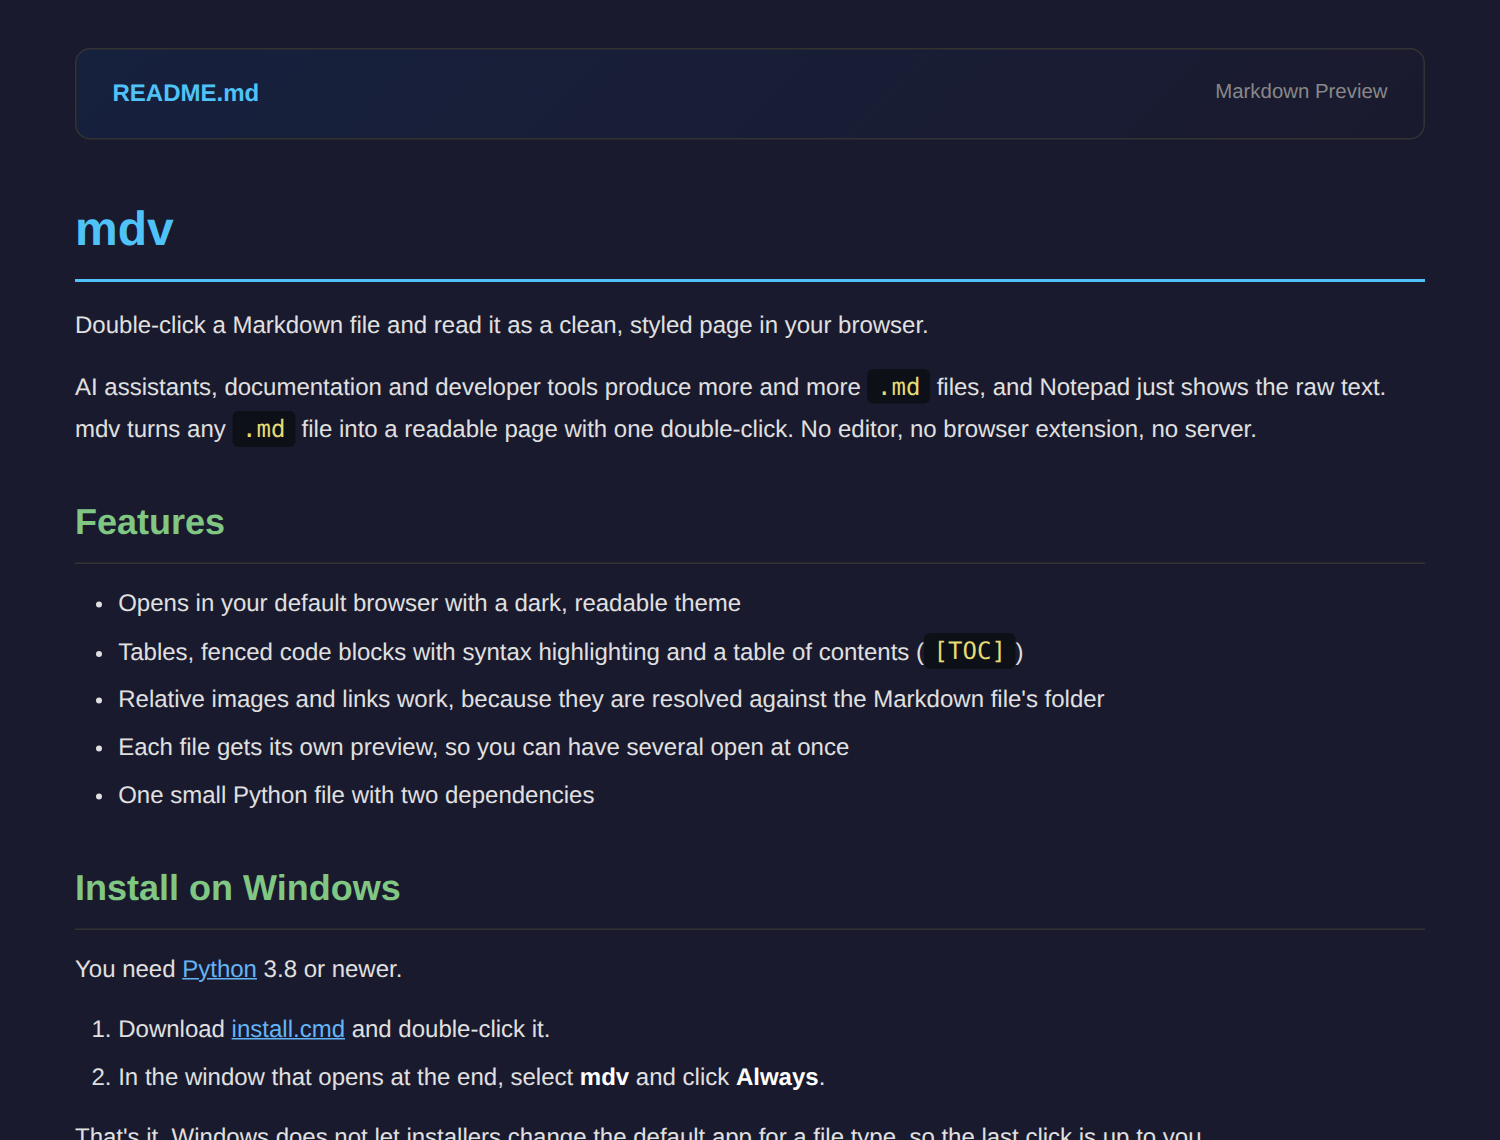
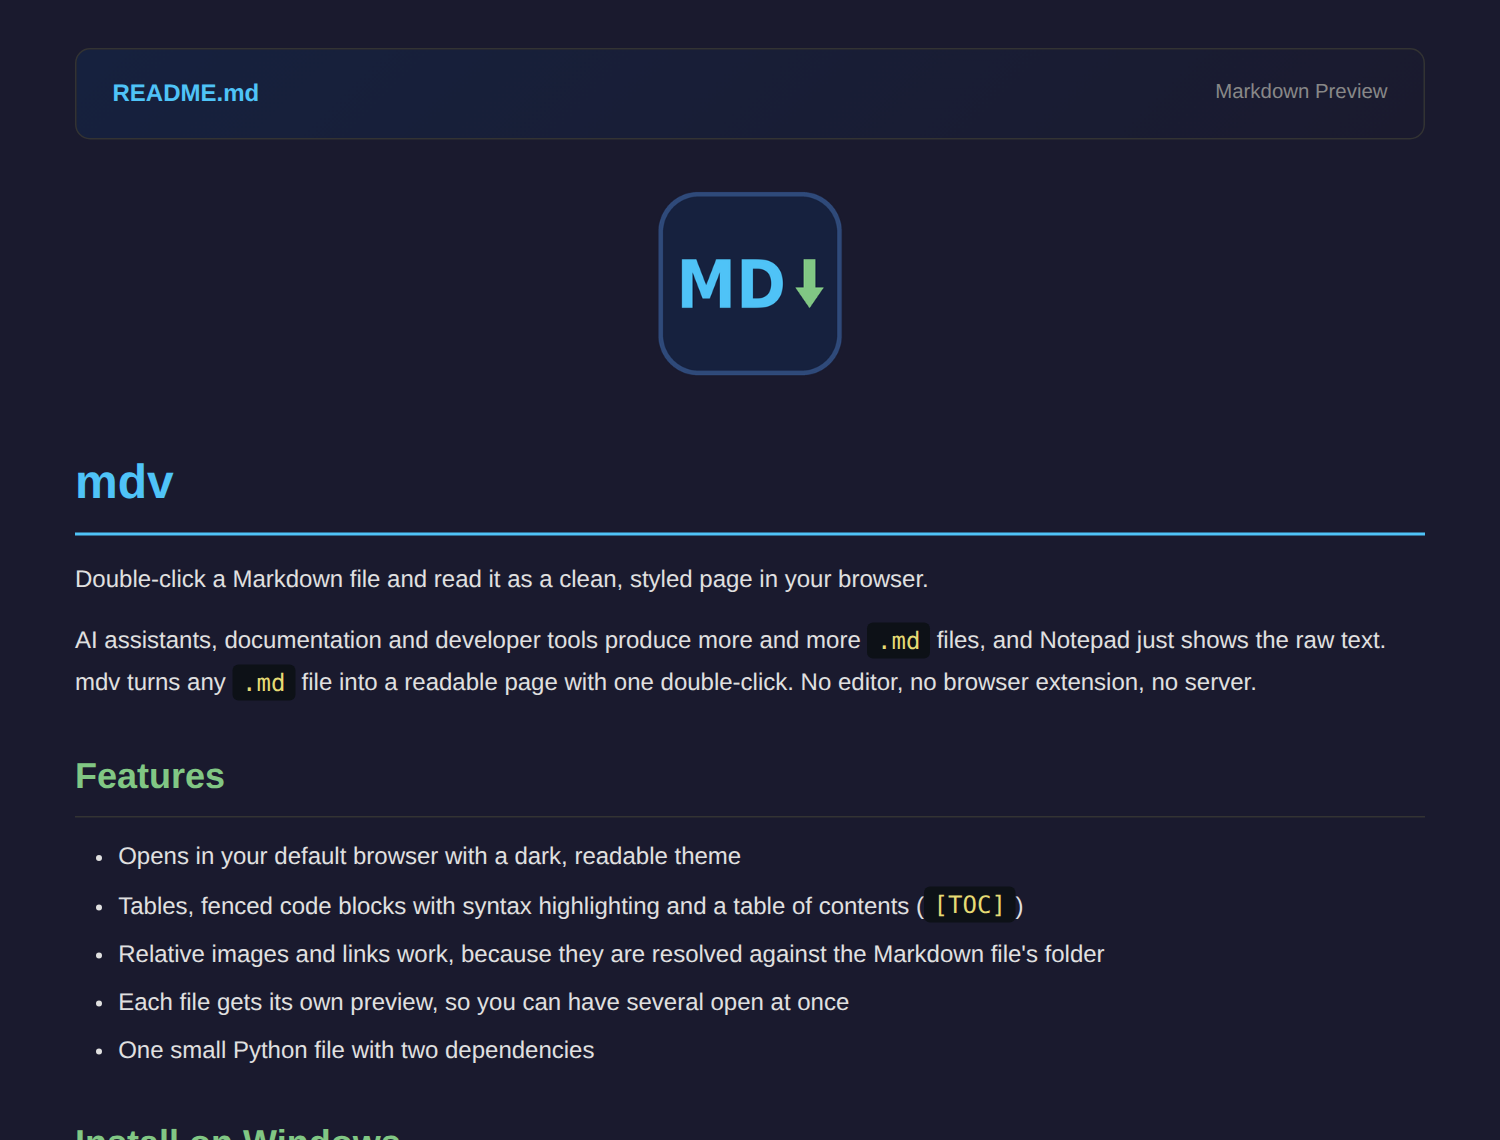
Add files via upload
Add icon and update installer

diff --git a/README.md b/README.md
@@ -1,3 +1,7 @@
+<p align="center">
+  <img src="https://raw.githubusercontent.com/rothausen/mdv/main/logo.png" width="128" alt="mdv logo">
+</p>
+
 # mdv
 
 Double-click a Markdown file and read it as a clean, styled page in your browser.
@@ -19,7 +23,7 @@ AI assistants, documentation and developer tools produce more and more `.md` fil
 You need [Python](https://www.python.org/downloads/) 3.8 or newer.
 
 1. Download [install.cmd](https://github.com/rothausen/mdv/releases/latest/download/install.cmd) and double-click it.
-2. In the window that opens at the end, select **mdv** and click **Always**.
+2. A window opens at the end. Scroll to the bottom of the list, click **mdv** and click **Always**. If mdv is not in the list, click **Choose an app on your PC** and select `mdv.bat` in `%USERPROFILE%\bin\mdv`.
 
 That's it. Windows does not let installers change the default app for a file type, so the last click is up to you.
 
